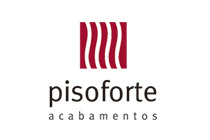
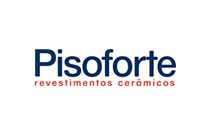
Changed the layout to version 2.0

Changed region(s): [[0.1429, 0.1429, 0.8571, 0.7714], [0.4286, 0.8, 0.7714, 0.8571], [0.2286, 0.8, 0.4, 0.8571]]

diff --git a/views/sass/style.sass b/views/sass/style.sass
@@ -4,6 +4,8 @@
 @import compass
 @import compass/css3
 
+@import url("http://fonts.googleapis.com/css?family=Open+Sans:400,600,700")
+
 // This includes all of the foundation global elements that are needed to work with any of the other files.
 @import foundation/variables
 @import foundation/components/global
@@ -17,21 +19,35 @@
 @import semantic-mixins/image
 @import semantic-mixins/css3-support
 
-html
-  @media screen and (min-width: 768px)
-    background: url('images/bg.jpg') no-repeat top center
-
 body
   background: none
   text-align: center
+  *
+    font-family: 'Open Sans', sans-serif
 
-#main
-  background: #e6e6e6
-  box-shadow: 0 4px 10px rgba(black, .4)
+.row
+  max-width: 100%
 
-#logo a
-  +image-replace("logo.png")
-  margin: 1em auto
+header.row
+  background: $secondary-color
+  +vertical-gradient(lighten($secondary-color,7%),darken($secondary-color,7%))
+  text-align: left
+  position: relative
+  z-index: 40
+  border-bottom: 1px solid #333
+  border-top: 8px solid $primary-color
+
+#logo img
+  padding: 1.8em
+  @media screen and (max-width: 768px)
+    margin: 1.8em auto
+
+.main_content
+  padding-top: 3em
+  padding-bottom: 3em
+  background: #444 url('images/cartoes_bg.jpg') no-repeat center fixed
+  background-size: cover
+  box-shadow: 0 0 50px rgba(black,.5) inset
 
 .button
   box-shadow: none
@@ -45,25 +61,41 @@ body
     text-shadow: 0 1px 1px rgba(black, .4)
 
 h4
-  color: #444
-
-ul.phones
-  list-style: none
+  color: darken($primary-color,7%)
+  text-shadow: 1px 1px 1px white
 
 .contact_form
-  background: white
-  border: 1px solid #ddd
-  padding: 1.8em .6em 0
-  border-radius: 0 0 6px 6px
+  background: rgba($secondary-color, .85)
+  // +vertical-gradient(lighten($secondary-color,7%),darken($secondary-color,7%))
+  padding: 1em 1em 0
+  border-radius: 6px
+  box-shadow: 0 0 15px rgba(black, .3)
+  border: 1px solid $primary-color
+  p
+    font-weight: 600
+    font-size: .95em
+  h4
+    margin-bottom: .2em
   form
     margin-bottom: 0
+    input[type=text], input[type=email], textarea
+      border: 1px solid $primary-color
+  @media screen and (max-width: 768px)
+    padding: 1em .6em 0
 
 .partners_container
-  padding: 2em 0 2em
+  background: $primary-color
+  +vertical-gradient(lighten($primary-color,3%),$primary-color)
+  padding: 1em 0 2em
+  border-top: 1px solid black
+  border-bottom: 8px solid $secondary-color
+  h4
+    color: $secondary-color
+    text-shadow: 1px 1px 1px rgba(black,.7)
   img
     width: 180px
     margin: .5em
-    border-radius: 4px
+    border-radius: 6px
     border: 3px solid transparent
     +transition(.6s)
     +opacity(.9)

diff --git a/views/sass/foundation/_variables.scss b/views/sass/foundation/_variables.scss
@@ -45,7 +45,7 @@ $default-float: left;
 // Colors
 
 $primary-color: #1a3458;
-// $secondary-color: #e9e9e9;
+$secondary-color: #e6e6e6;
 // $alert-color: #c60f13;
 // $success-color: #5da423;
 
